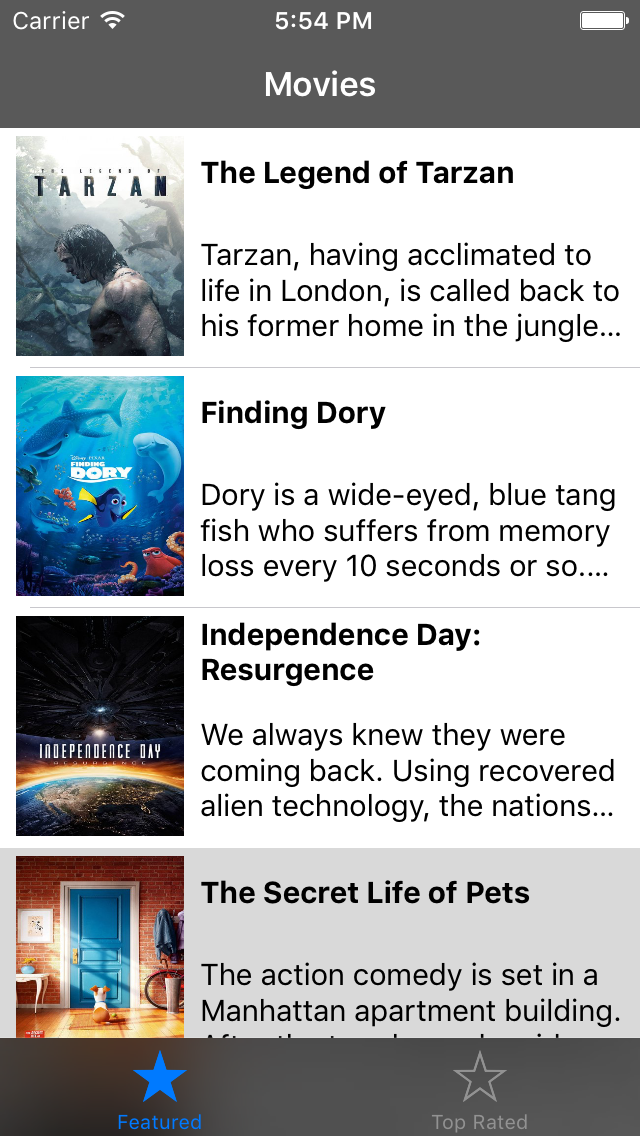
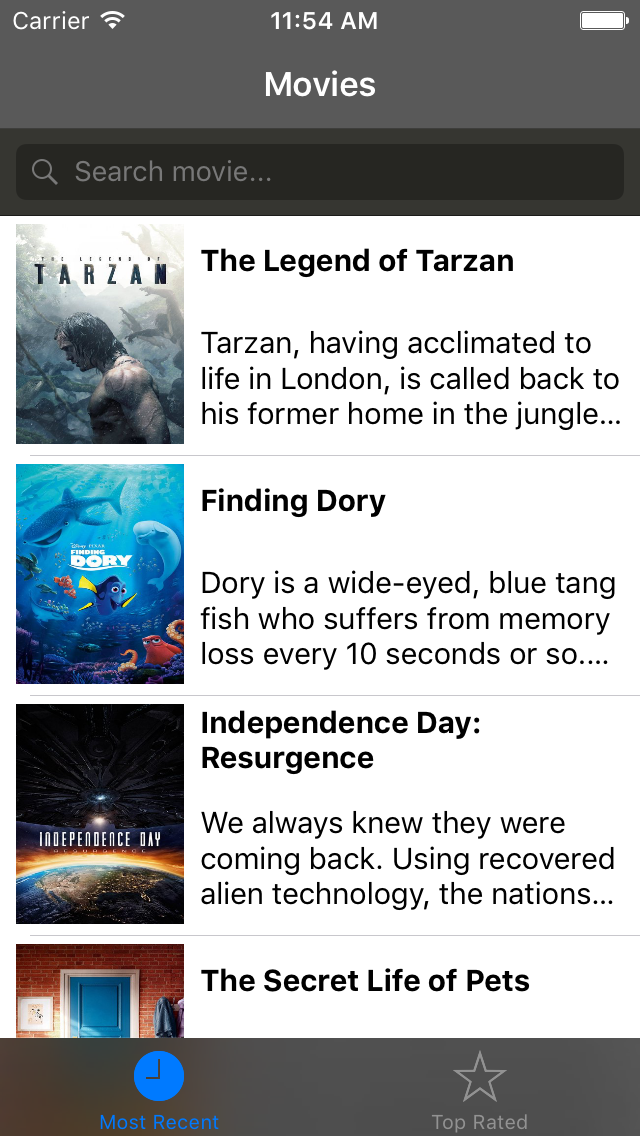
Add search bar

diff --git a/Flicks/MoviesViewController.swift b/Flicks/MoviesViewController.swift
@@ -10,13 +10,14 @@ import UIKit
 
 class MoviesViewController: UIViewController {
     
-    
     @IBOutlet weak var tableView: UITableView!
+    @IBOutlet weak var searchBar: UISearchBar!
     var refreshControl: UIRefreshControl!
     
     let apiKey = "660d335023d450eb3cfd376d7b81de56"
     let nowPlayingURL = "https://api.themoviedb.org/3/movie/now_playing?api_key="
     let topRatedURL = "https://api.themoviedb.org/3/movie/top_rated?api_key="
+    let searchURL = "https://api.themoviedb.org/3/search/movie?query=%@&api_key=%@"
     var type = 0
     var data = []
     
@@ -24,13 +25,15 @@ class MoviesViewController: UIViewController {
         super.viewDidLoad()
         // Do any additional setup after loading the view, typically from a nib.
         
-        if self.tabBarItem.tag == 1 {
-            type = 1
+        if searchBar?.text?.characters.count > 0 {
+            type = 3
+        } else {
+            type = self.tabBarItem.tag
         }
         
-        self.tableView.dataSource = self
-        self.tableView.delegate = self
-        self.tabBarController?.delegate
+        tableView.dataSource = self
+        tableView.delegate = self
+        searchBar?.delegate = self
         
         // Initialize a UIRefreshControl
         let refreshControl = UIRefreshControl()
@@ -39,11 +42,14 @@ class MoviesViewController: UIViewController {
         refreshControlAction(refreshControl)
     }
 
-    func refreshControlAction(refreshControl: UIRefreshControl) {
+    
+    func refreshControlAction(refreshControl: UIRefreshControl?) {
         
         var urlString = nowPlayingURL.stringByAppendingString(apiKey)
         if type == 1 {
             urlString = topRatedURL.stringByAppendingString(apiKey)
+        } else if type == 3 {
+            urlString = String(format: searchURL, searchBar.text!.stringByAddingPercentEncodingForRFC3986()!, apiKey)
         }
         
         let url = NSURL(string: urlString)
@@ -74,7 +80,7 @@ class MoviesViewController: UIViewController {
                         
                         self.tableView.reloadData()
                         
-                        refreshControl.endRefreshing()
+                        refreshControl?.endRefreshing()
                     }
                 }
         });
@@ -120,4 +126,35 @@ extension MoviesViewController: UITableViewDelegate {
     }
 }
 
+extension MoviesViewController: UISearchBarDelegate {
+    
+    func searchBarTextDidEndEditing(searchBar: UISearchBar) {
+        
+        performSearch()
+    }
+    
+    func searchBarSearchButtonClicked(searchBar: UISearchBar) {
+     
+        performSearch()
+    }
+    
+    func performSearch() {
+        
+        if searchBar?.text?.characters.count > 0 {
+            type = 3
+        }
 
+        refreshControlAction(refreshControl)
+        
+        type = self.tabBarItem.tag
+    }
+}
+
+extension String {
+    func stringByAddingPercentEncodingForRFC3986() -> String? {
+        let unreserved = "-._~/?"
+        let allowed = NSMutableCharacterSet.alphanumericCharacterSet()
+        allowed.addCharactersInString(unreserved)
+        return stringByAddingPercentEncodingWithAllowedCharacters(allowed)
+    }
+}

diff --git a/Flicks/ViewControllers/MovieDetailsViewController.swift b/Flicks/ViewControllers/MovieDetailsViewController.swift
@@ -17,7 +17,7 @@ class MovieDetailsViewController: UIViewController {
     @IBOutlet weak var descriptionView: UILabel!
     @IBOutlet weak var detailView: UIView!
     
-    let posterPath = "https://image.tmdb.org/t/p/w342"
+    let posterBaseUrl = "https://image.tmdb.org/t/p/w342"
 
     var data: NSDictionary = [:]
 
@@ -37,9 +37,16 @@ class MovieDetailsViewController: UIViewController {
         descriptionView?.sizeToFit()
         delta = (descriptionView?.frame.size.height)! - delta!
         
-        var urlString = data.valueForKeyPath("poster_path") as! String
-        urlString = posterPath.stringByAppendingString(urlString)
-        imageView?.setImageWithURL(NSURL(string: urlString)!)
+        if let posterPath = data["poster_path"] as? String {
+            let posterUrl = NSURL(string: posterBaseUrl + posterPath)
+            imageView.setImageWithURL(posterUrl!)
+        }
+        else {
+            // No poster image. Can either set to nil (no image) or a default movie poster image
+            // that you include as an asset
+            imageView.image = nil
+        }
+
 
         let contentWidth = scrollView.bounds.width
         let contentHeight = scrollView.bounds.height + delta!

diff --git a/Flicks/Views/MovieTableViewCell.swift b/Flicks/Views/MovieTableViewCell.swift
@@ -15,15 +15,21 @@ class MovieTableViewCell: UITableViewCell {
     @IBOutlet weak var photoView: UIImageView!
     @IBOutlet weak var descriptionView: UILabel!
     
-    let posterPath = "https://image.tmdb.org/t/p/w342"
+    let posterBaseUrl = "https://image.tmdb.org/t/p/w342"
 
     func initWithData(data: NSDictionary) {
         
         titleLabel?.text = data.valueForKeyPath("title") as? String
         descriptionView?.text = data.valueForKeyPath("overview") as? String
         
-        var urlString = data.valueForKeyPath("poster_path") as! String
-        urlString = posterPath.stringByAppendingString(urlString)
-        photoView?.setImageWithURL(NSURL(string: urlString)!)
+        if let posterPath = data["poster_path"] as? String {
+            let posterUrl = NSURL(string: posterBaseUrl + posterPath)
+            photoView.setImageWithURL(posterUrl!)
+        }
+        else {
+            // No poster image. Can either set to nil (no image) or a default movie poster image
+            // that you include as an asset
+            photoView.image = nil
+        }
     }
 }

diff --git a/README.md b/README.md
@@ -18,7 +18,7 @@ The following **optional** features are implemented:
 
 - [ ] Add a tab bar for **Now Playing** and **Top Rated** movies.
 - [ ] Implement segmented control to switch between list view and grid view.
-- [ ] Add a search bar.
+- [x] Add a search bar.
 - [ ] All images fade in.
 - [ ] For the large poster, load the low-res image first, switch to high-res when complete.
 - [ ] Customize the highlight and selection effect of the cell.
